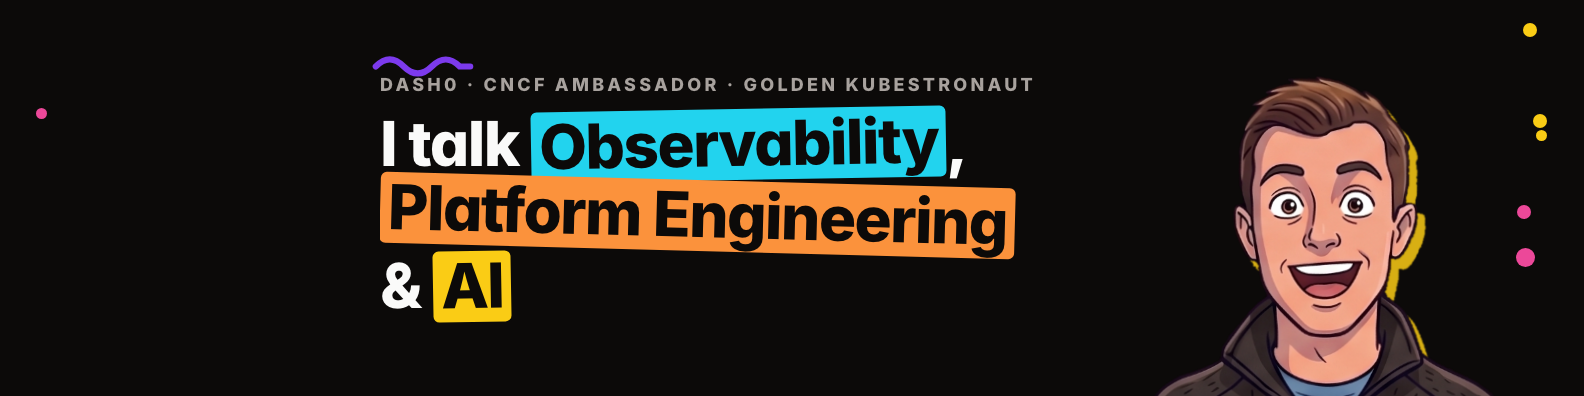
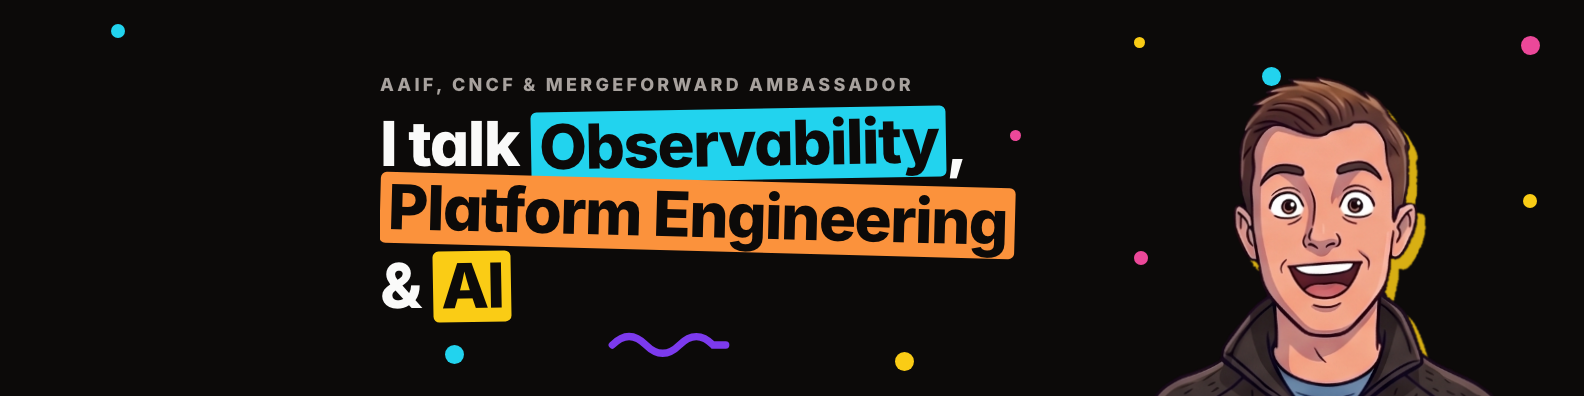
Let the social cover scale its mascot and spread its confetti
Adds --mascot-scale, places confetti in the browser after the headline has been fitted so it fills the frame, and renders the LinkedIn launch cards.

diff --git a/.claude/skills/social-cover/render.py b/.claude/skills/social-cover/render.py
@@ -58,6 +58,74 @@ FIT_JS = """(start) => {
   return size;
 }"""
 
+# Thins the candidate confetti down to a spread subset that clears the type.
+# Runs after the fit passes, because only then is the headline at its final
+# size and its line boxes where they will actually be.
+DECOR_JS = """(opts) => {
+  const h1 = document.querySelector('h1');
+  const kicker = document.getElementById('kicker');
+  const mascot = document.querySelector('#mascot img');
+
+  // Per line box, not the h1's block box: a block box spans the full column
+  // width, so short last lines would fence off empty space beside them.
+  const keep = [];
+  const range = document.createRange();
+  range.selectNodeContents(h1);
+  for (const r of range.getClientRects()) if (r.width) keep.push(r);
+  if (kicker) keep.push(kicker.getBoundingClientRect());
+  // The banner's reserved corner: LinkedIn lays the profile photo over it, so
+  // confetti placed there is simply covered up, and the cover renders sparser
+  // than it looks here.
+  if (opts.reserve) keep.push(opts.reserve);
+  if (mascot) {
+    // Inset: a PNG's box includes its transparent margin, and decor sits
+    // behind the figure anyway, so only the opaque core needs protecting.
+    const b = mascot.getBoundingClientRect();
+    const ix = b.width * 0.16, iy = b.height * 0.1;
+    keep.push({left: b.left + ix, right: b.right - ix,
+               top: b.top + iy, bottom: b.bottom - iy});
+  }
+
+  const grow = opts.grow;
+  const clear = (b) => !keep.some(k =>
+    b.left < k.right + grow && b.right > k.left - grow &&
+    b.top < k.bottom + grow && b.bottom > k.top - grow);
+
+  const thin = (sel, want, start, floor) => {
+    const free = [];
+    for (const el of document.querySelectorAll(sel)) {
+      const b = el.getBoundingClientRect();
+      if (!clear(b)) { el.remove(); continue; }
+      free.push({el, b, x: b.left + b.width / 2, y: b.top + b.height / 2});
+    }
+    // Farthest-first: accept a candidate only if it stands clear of the ones
+    // already accepted, relaxing the spacing until enough fit. Without this
+    // the survivors clump into whatever gap the copy happens to leave.
+    // `floor` is where relaxing stops: past it, fewer marks beat tangled ones.
+    let gap = start, taken = [];
+    while (true) {
+      taken = [];
+      for (const c of free) {
+        if (taken.every(t => Math.hypot(t.x - c.x, t.y - c.y) >= gap)) taken.push(c);
+        if (taken.length >= want) break;
+      }
+      if (taken.length >= want || gap < floor) break;
+      gap *= 0.82;
+    }
+    const kept = new Set(taken.map(t => t.el));
+    for (const {el} of free) if (!kept.has(el)) el.remove();
+    return taken;
+  };
+
+  // Squiggles first, and the ones that land become keep-out for the dots.
+  // They are the biggest marks and the only ones that read as tangled when
+  // they touch, so they get the pick of the space and a hard spacing floor.
+  const squigs = thin('.squig.cand', opts.squigs, opts.spread * 1.6, opts.spread);
+  for (const s of squigs) keep.push(s.b);
+  const dots = thin('.dot.cand', opts.dots, opts.spread, 12);
+  return [dots.length, squigs.length];
+}"""
+
 # The kicker is one line by definition — it is a label, not a sentence. Let it
 # wrap and it reads as a typo, and at 0.18em tracking even a short credit line
 # wraps on a card. Shrink it to fit instead of trimming the words.
@@ -93,51 +161,38 @@ def parse_headline(text):
 
 
 def decor(rng, w, h, pad):
-    """Confetti and the hero's squiggle, kept in the margins so they do not
-    land on the headline.
+    """Candidate confetti and squiggles, scattered over the whole frame.
 
-    Placement is stratified rather than random: a coin-flip per dot, over only
-    five or six of them, regularly dealt nearly all of them to one side, and a
-    card with every dot bunched in the right margin looks like a mistake. Sides
-    alternate, and each side's dots are spread down its own height bands, so
-    the frame is decorated evenly however the seed falls.
+    These are candidates, not final placements: far more are emitted than are
+    wanted, spread on a jittered grid, and DECOR_JS keeps a well-spaced subset
+    of the ones that miss the type and the mascot. Confining them to the left
+    and right margins here instead — the obvious way to keep them off the
+    headline — is what makes a cover look edged rather than scattered, and it
+    cannot be fixed from Python: the headline is auto-fitted after layout, so
+    its real box is not known until the browser has it.
     """
     bits = []
     unit = max(10, round(w / 150))
-    m = unit * 1.5
-    n = rng.randint(6, 8)
-    # Wide enough to read as a scatter. The headline and the mascot own the
-    # middle; these bands are the margins either side of them.
-    # The left band stops short of `pad`, where the copy starts — a dot resting
-    # on the kicker's first letter reads as a rendering fault, not decoration.
-    # The right band can run wider: the mascot is cut narrower than its column.
-    bands = {
-        0: (unit * 0.5, max(unit, pad * 0.7 - unit * 1.7)),
-        1: (w - pad * 1.9, w - m - unit * 1.7),
-    }
-    for i in range(n):
-        size = rng.choice([unit, round(unit * 1.3), round(unit * 1.7)])
-        lo, hi = bands[i % 2]
-        x = rng.uniform(lo, max(lo, hi))
-        # One dot per horizontal band, jittered inside it, so they never stack.
-        slot = i // 2
-        slots = (n + 1) // 2
-        span = (h - 2 * m - size) / slots
-        y = m + slot * span + rng.uniform(0, span * 0.7)
-        bits.append(
-            f'<span class="dot" style="left:{x:.0f}px;top:{y:.0f}px;'
-            f'width:{size}px;height:{size}px;background:{rng.choice(DOT_COLOURS)}"></span>'
-        )
-    # The exact path from Hero.astro, scaled to the canvas. One near the top
-    # left, one low on the opposite side, so the pair frames the type instead
-    # of crowding one corner of it.
+    m = unit * 1.2
+    # One candidate per cell, jittered inside it, so the pool itself is even
+    # and the survivors inherit that evenness wherever the copy leaves room.
+    cols, rows = 8, 5
+    for r in range(rows):
+        for c in range(cols):
+            size = rng.choice([unit, round(unit * 1.3), round(unit * 1.7)])
+            x = m + (w - 2 * m - size) * (c + rng.uniform(0.15, 0.85)) / cols
+            y = m + (h - 2 * m - size) * (r + rng.uniform(0.15, 0.85)) / rows
+            bits.append(
+                f'<span class="dot cand" style="left:{x:.0f}px;top:{y:.0f}px;'
+                f'width:{size}px;height:{size}px;background:{rng.choice(DOT_COLOURS)}"></span>'
+            )
+    # The exact path from Hero.astro, scaled to the canvas.
     s = max(1.0, w / 750)
-    for sx, sy in (
-        (rng.uniform(pad * 0.5, w * 0.34), rng.uniform(pad * 0.2, pad * 0.8)),
-        (rng.uniform(w * 0.55, w - pad * 1.4), rng.uniform(h - pad * 1.5, h - pad * 0.6)),
-    ):
+    for _ in range(10):
+        sx = rng.uniform(m, w - m - 58 * s)
+        sy = rng.uniform(m, h - m - 20 * s)
         bits.append(
-            f'<svg style="position:absolute;left:{sx:.0f}px;top:{sy:.0f}px" '
+            f'<svg class="squig cand" style="position:absolute;left:{sx:.0f}px;top:{sy:.0f}px" '
             f'width="{58*s:.0f}" height="{20*s:.0f}" viewBox="0 0 58 20">'
             '<path d="M2 10 Q10 2 18 10 T34 10 T50 10 L56 10" stroke="#7c3aed" '
             'stroke-width="3.5" fill="none" stroke-linecap="round" /></svg>'
@@ -167,7 +222,7 @@ def build_html(args, p):
         if not path.exists():
             have = ", ".join(sorted(f.stem for f in MASCOTS.glob("*.png")))
             sys.exit(f"no mascot {name!r} in {MASCOTS}\navailable: {have}")
-        mascot_w = int(w * p["mascot"])
+        mascot_w = int(w * p["mascot"] * args.mascot_scale)
         mascot_html = f'<div id="mascot"><img src="{data_uri(path)}" alt="" /></div>'
 
     # Scaled off the mascot, not the canvas: the hero's offset reads as a hard
@@ -206,6 +261,11 @@ def main():
     ap.add_argument("--kicker", help="small uppercase line above the headline")
     ap.add_argument("--mascot", help="name from assets/mascots, or 'random'")
     ap.add_argument("--flip", action="store_true", help="mascot on the left")
+    # The presets size the mascot to leave the headline the width it needs. A
+    # short headline does not need all of it, so this trades that slack back to
+    # the figure; the type auto-fits to whatever is left.
+    ap.add_argument("--mascot-scale", type=float, default=1.0,
+                    help="multiply the preset's mascot width, e.g. 1.4 for a bigger figure")
     ap.add_argument("--seed", help="fix the confetti")
     ap.add_argument("--out", required=True, type=Path)
     args = ap.parse_args()
@@ -236,6 +296,19 @@ def main():
         final = page.evaluate(FIT_JS, p["font"])
         if final < p["font"]:
             print(f"headline shrunk {p['font']} -> {final}px to fit", file=sys.stderr)
+        # Last: the confetti is placed against the type's final boxes.
+        reserve = None
+        if p.get("padl", p["pad"]) > p["pad"]:
+            reserve = {"left": 0, "right": p["padl"],
+                       "top": p["h"] * 0.2, "bottom": p["h"]}
+        dots, squigs = page.evaluate(DECOR_JS, {
+            "dots": 9, "squigs": 2,
+            "spread": min(p["w"], p["h"]) / 3.0,
+            "grow": p["pad"] * 0.3,
+            "reserve": reserve,
+        })
+        if dots < 9 or squigs < 2:
+            print(f"decor: room for {dots} dots and {squigs} squiggles", file=sys.stderr)
         page.screenshot(path=str(args.out))
         browser.close()
     print(f"{args.out}  {p['w']}x{p['h']}")

diff --git a/.claude/skills/social-cover/SKILL.md b/.claude/skills/social-cover/SKILL.md
@@ -33,6 +33,7 @@ compositions, and a headline one word longer can change how it balances.
 | `--headline` | The line. `{...}` marks a chip. |
 | `--kicker` | Small uppercase line above the headline. Optional. Shrunk to fit one line, so keep it to a short credit — a long one just renders small. |
 | `--flip` | Put the mascot on the left. |
+| `--mascot-scale` | Multiply the preset's mascot width. The headline auto-fits into whatever is left, so watch what the run prints: on a `card`, `1.8` still leaves a 74px headline, while `2.1` drops it to 52px and the kicker to 13px, which is too small to read at feed size. |
 | `--seed` | Fixes the confetti. Same seed + same text = same image. |
 
 ## Writing the headline
@@ -80,6 +81,15 @@ reimplementing rotated rounded rectangles and font metrics by hand for a worse
 match. The colours in `template.html` are copied from `src/styles/global.css`
 and `src/components/Hero.astro`; if the site's palette changes, change them
 there too.
+
+The confetti is placed in the browser too, for the same reason. `render.py`
+scatters far more dots and squiggles than it wants across the whole frame, then
+— once the headline has been auto-fitted and its line boxes are final — keeps a
+well-spaced subset of the ones that clear the type and the mascot. So the
+scatter fills the frame instead of hugging the margins, and a long headline
+simply leaves fewer places for it. If a run prints `decor: room for N dots`, the
+copy and the mascot have taken most of the space; that is information, not a
+fault, but it is worth a look.
 
 Needs `playwright` with Chromium installed. Inter loads from rsms.me, the same
 place the site gets it, so rendering needs network.
